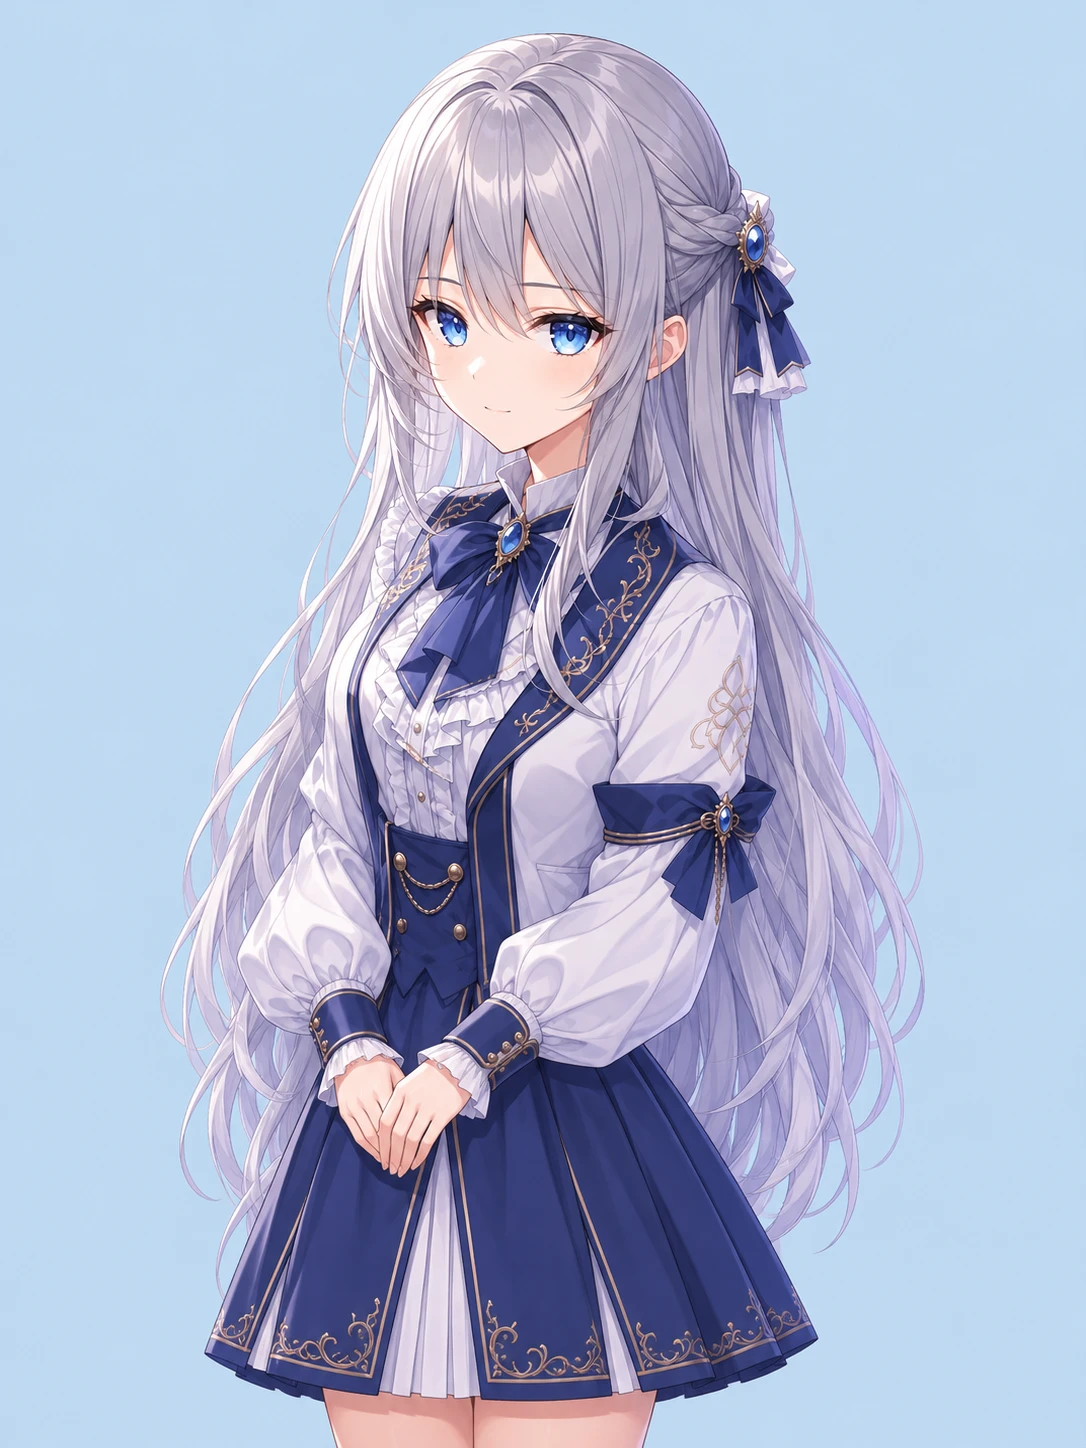
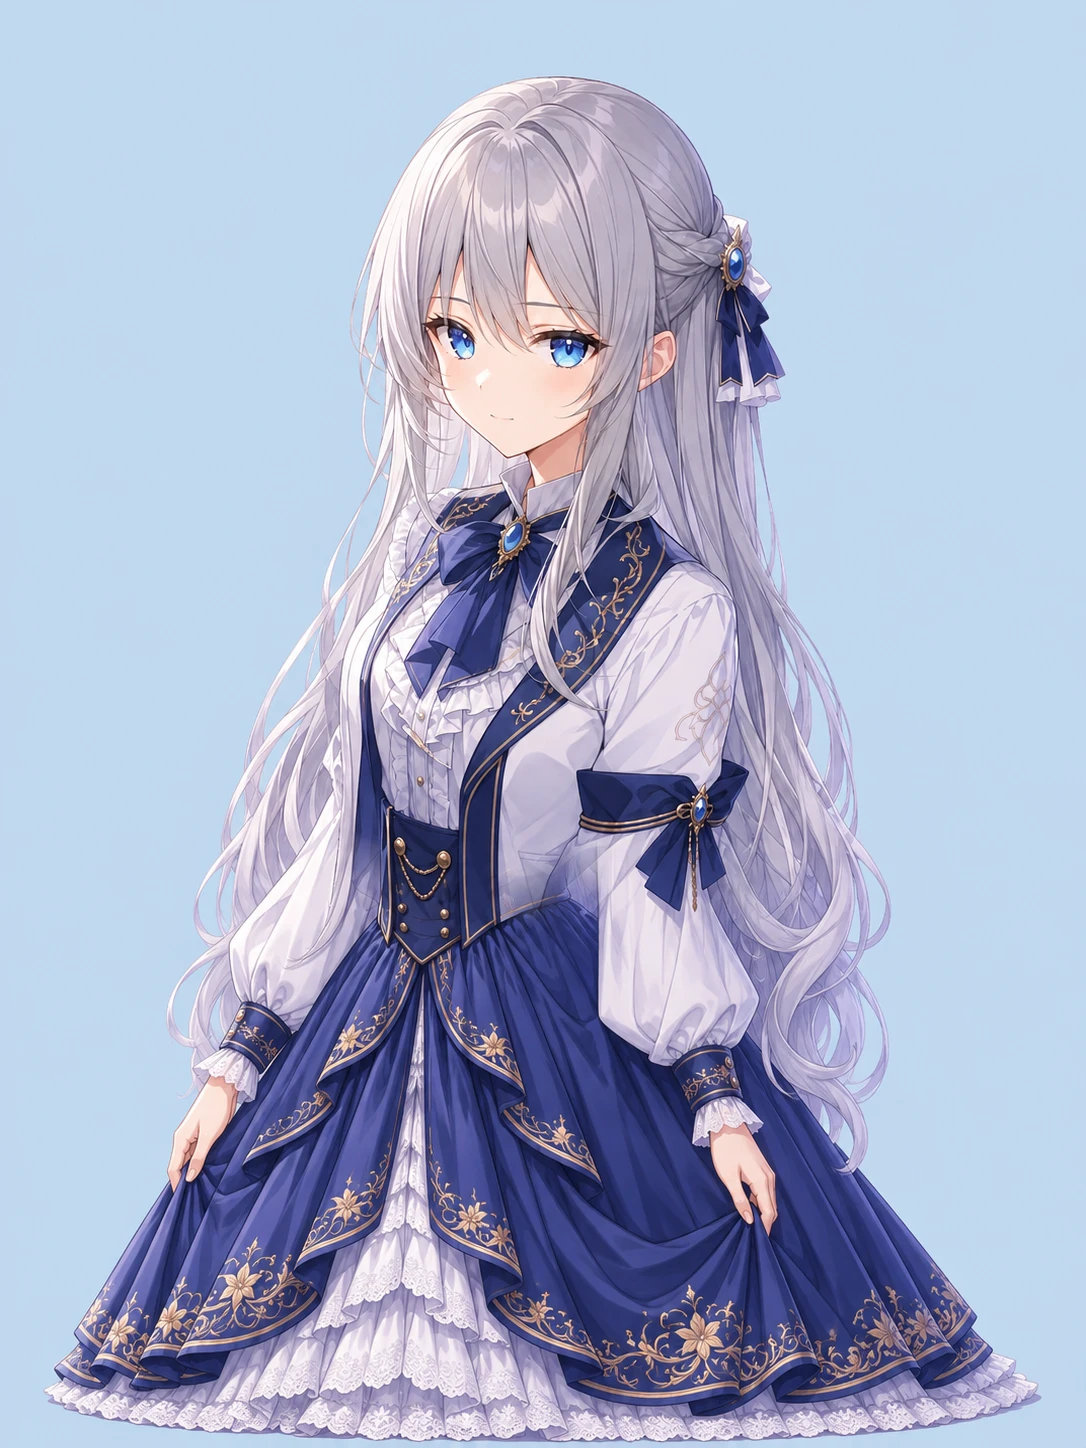
demos(portrait-picker): update Batch 1A v2 locked-structure natural outpaint candidates

diff --git a/portrait-picker/index.html b/portrait-picker/index.html
@@ -3,7 +3,7 @@
 <head>
 <meta charset="UTF-8">
 <meta name="viewport" content="width=device-width, initial-scale=1.0">
-<title>Batch 1A · 三姐妹少女期（每角 5 选 1）</title>
+<title>Batch 1A v2 · 三姐妹少女期（原图结构锁定补画 · 放宽体型）</title>
 <style>
 /* ==========================================================================
    《转生千金》立绘 5 选 1 交互审图工坊 · 棱镜冰晶雪瓷视觉体系
@@ -2030,7 +2030,7 @@ body.view-large .btn-zoom .zoom-txt {
 
 <div class="toast" id="toast" role="status" aria-live="polite"></div>
 
-<script id="showcase-data" type="application/json">{"batch_id":"batch_1a","batch_label":"Batch 1A","title":"Batch 1A · 三姐妹少女期（每角 5 选 1）","subtitle":"GPT 双通道 3:4 原生外扩拉长 · 同色系浅雾底防抠图溢色 · 选定后送抠抠图精抠","characters":[{"id":"sylvia_teenage_normal","name":"希尔维亚 · 少女期","role_tag":"核心女主 · 4 阶段之一","sample_line":"既然重活一世，这一生总该按自己的步调，悠闲地过日子才对。","original":{"src":"img/sylvia_teenage_normal/original.webp","defect":"原图仅到束腰上半截，且左右披发与白袖均被硬裁（左65px/右42px）","metrics":{"width":1086,"height":1448,"aspect":"3:4","margin_l":0.0,"margin_r":0.0,"margin_t":2.3,"margin_b":0.0,"bg_std":0.0,"bg_hex":"transparent","is_transparent":true}},"candidates":[{"index":1,"label":"#01","src":"img/sylvia_teenage_normal/cand_01.webp","tag":"短裙校准原版","note":"","metrics":{"width":1086,"height":1448,"aspect":"3:4","margin_l":14.7,"margin_r":14.8,"margin_t":2.2,"margin_b":0.0,"bg_std":1.5,"bg_hex":"#BFD9F2","is_transparent":false}},{"index":2,"label":"#02","src":"img/sylvia_teenage_normal/cand_02.webp","tag":"双手交叠束腰前","note":"","metrics":{"width":1086,"height":1448,"aspect":"3:4","margin_l":9.2,"margin_r":13.3,"margin_t":5.3,"margin_b":0.0,"bg_std":1.5,"bg_hex":"#BDD6EE","is_transparent":false}},{"index":3,"label":"#03","src":"img/sylvia_teenage_normal/cand_03.webp","tag":"单手微抬轻抚裙侧","note":"","metrics":{"width":1086,"height":1448,"aspect":"3:4","margin_l":9.4,"margin_r":10.5,"margin_t":5.3,"margin_b":0.0,"bg_std":1.2,"bg_hex":"#BBD5EF","is_transparent":false}},{"index":4,"label":"#04","src":"img/sylvia_teenage_normal/cand_04.webp","tag":"双臂微收轻拢裙面","note":"","metrics":{"width":1086,"height":1448,"aspect":"3:4","margin_l":8.8,"margin_r":12.2,"margin_t":5.2,"margin_b":0.0,"bg_std":1.4,"bg_hex":"#BED7EF","is_transparent":false}},{"index":5,"label":"#05","src":"img/sylvia_teenage_normal/cand_05.webp","tag":"微侧身手搭手腕","note":"","metrics":{"width":1086,"height":1448,"aspect":"3:4","margin_l":15.2,"margin_r":19.1,"margin_t":5.4,"margin_b":0.0,"bg_std":1.1,"bg_hex":"#BBD6F1","is_transparent":false}}]},{"id":"alice_teenage_normal","name":"爱丽丝 · 少女期","role_tag":"公爵次女 · 3 阶段之一","sample_line":"姐姐，今天的风有些凉，披肩记得系紧些再出门。","original":{"src":"img/alice_teenage_normal/original.webp","defect":"原图仅胸上/高腰裁切，白纱蓬袖与披发紧逼左右边界","metrics":{"width":1086,"height":1448,"aspect":"3:4","margin_l":1.5,"margin_r":2.4,"margin_t":4.3,"margin_b":0.0,"bg_std":0.0,"bg_hex":"transparent","is_transparent":true}},"candidates":[{"index":1,"label":"#01","src":"img/alice_teenage_normal/cand_01.webp","tag":"双手交叠（校准标杆）","note":"","metrics":{"width":1086,"height":1448,"aspect":"3:4","margin_l":16.8,"margin_r":16.8,"margin_t":3.9,"margin_b":0.0,"bg_std":1.6,"bg_hex":"#C0D9F2","is_transparent":false}},{"index":2,"label":"#02","src":"img/alice_teenage_normal/cand_02.webp","tag":"双手交叠腰扣下","note":"","metrics":{"width":1086,"height":1448,"aspect":"3:4","margin_l":10.8,"margin_r":10.9,"margin_t":4.3,"margin_b":0.0,"bg_std":1.4,"bg_hex":"#BDD8F0","is_transparent":false}},{"index":3,"label":"#03","src":"img/alice_teenage_normal/cand_03.webp","tag":"双臂柔和垂于裙侧","note":"","metrics":{"width":1086,"height":1448,"aspect":"3:4","margin_l":14.4,"margin_r":15.5,"margin_t":4.6,"margin_b":0.0,"bg_std":1.5,"bg_hex":"#BCD5EF","is_transparent":false}},{"index":4,"label":"#04","src":"img/alice_teenage_normal/cand_04.webp","tag":"一手轻搭胸前丝带","note":"","metrics":{"width":1086,"height":1448,"aspect":"3:4","margin_l":10.4,"margin_r":10.5,"margin_t":4.7,"margin_b":0.2,"bg_std":1.8,"bg_hex":"#BED8F2","is_transparent":false}},{"index":5,"label":"#05","src":"img/alice_teenage_normal/cand_05.webp","tag":"微侧身轻拢双手","note":"","metrics":{"width":1086,"height":1448,"aspect":"3:4","margin_l":12.3,"margin_r":12.6,"margin_t":4.8,"margin_b":0.0,"bg_std":1.4,"bg_hex":"#BED7F0","is_transparent":false}}]},{"id":"beatrice_teenage_normal","name":"贝阿特丽丝 · 少女期","role_tag":"公爵长女 · 3 阶段之一","sample_line":"哈哈，既然是学院比试，可不许对我手下留情哦！","original":{"src":"img/beatrice_teenage_normal/original.webp","defect":"原图为 1:1 方画幅，顶边仅 4px 险切高马尾，腰下与双袖斜切","metrics":{"width":1254,"height":1254,"aspect":"1:1","margin_l":12.4,"margin_r":5.7,"margin_t":0.4,"margin_b":0.0,"bg_std":0.0,"bg_hex":"transparent","is_transparent":true}},"candidates":[{"index":1,"label":"#01","src":"img/beatrice_teenage_normal/cand_01.webp","tag":"单手叉腰轻扶裙侧","note":"","metrics":{"width":1086,"height":1448,"aspect":"3:4","margin_l":12.0,"margin_r":15.4,"margin_t":5.5,"margin_b":0.0,"bg_std":1.7,"bg_hex":"#E0D3BF","is_transparent":false}},{"index":2,"label":"#02","src":"img/beatrice_teenage_normal/cand_02.webp","tag":"双手轻叉细腰","note":"","metrics":{"width":1086,"height":1448,"aspect":"3:4","margin_l":14.2,"margin_r":15.6,"margin_t":5.5,"margin_b":0.0,"bg_std":1.8,"bg_hex":"#E0D3BE","is_transparent":false}},{"index":3,"label":"#03","src":"img/beatrice_teenage_normal/cand_03.webp","tag":"一手抬腰一手提裙","note":"","metrics":{"width":1086,"height":1448,"aspect":"3:4","margin_l":12.4,"margin_r":15.3,"margin_t":5.5,"margin_b":0.0,"bg_std":1.8,"bg_hex":"#E0D2BE","is_transparent":false}},{"index":4,"label":"#04","src":"img/beatrice_teenage_normal/cand_04.webp","tag":"双手轻提裙摆微弧","note":"","metrics":{"width":1086,"height":1448,"aspect":"3:4","margin_l":12.1,"margin_r":16.0,"margin_t":5.6,"margin_b":0.0,"bg_std":1.9,"bg_hex":"#E2D3BC","is_transparent":false}},{"index":5,"label":"#05","src":"img/beatrice_teenage_normal/cand_05.webp","tag":"微侧身一手按腰","note":"","metrics":{"width":1086,"height":1448,"aspect":"3:4","margin_l":11.3,"margin_r":16.1,"margin_t":5.5,"margin_b":0.0,"bg_std":1.7,"bg_hex":"#E0D2BD","is_transparent":false}}]}]}</script>
+<script id="showcase-data" type="application/json">{"batch_id":"batch_1a_v2","batch_label":"Batch 1A v2","title":"Batch 1A v2 · 三姐妹少女期（原图结构锁定补画 · 放宽体型）","subtitle":"原立绘上半身与双臂走势 100% 锁定自然外扩 · 严禁腹前搭手与捏细身形 · 放宽左右边距保华丽贵族蓬裙","characters":[{"id":"sylvia_teenage_normal","name":"希尔维亚 · 少女期","role_tag":"核心女主 · 4 阶段之一","sample_line":"既然重活一世，这一生总该按自己的步调，悠闲地过日子才对。","original":{"src":"img/sylvia_teenage_normal/original.webp","defect":"原图仅到束腰上半截，且左右披发与白袖均被硬裁（左65px/右42px）","metrics":{"width":1086,"height":1448,"aspect":"3:4","margin_l":0.0,"margin_r":0.0,"margin_t":2.3,"margin_b":0.0,"bg_std":0.0,"bg_hex":"transparent","is_transparent":true}},"candidates":[{"index":1,"label":"#01","src":"img/sylvia_teenage_normal/cand_01.webp","tag":"自然垂手·金绣长裙","note":"","metrics":{"width":1086,"height":1448,"aspect":"3:4","margin_l":4.1,"margin_r":4.2,"margin_t":5.2,"margin_b":0.3,"bg_std":0.6,"bg_hex":"#C0D8EF","is_transparent":false}},{"index":2,"label":"#02","src":"img/sylvia_teenage_normal/cand_02.webp","tag":"轻提裙侧·蓝白层褶","note":"","metrics":{"width":1086,"height":1448,"aspect":"3:4","margin_l":0.0,"margin_r":0.0,"margin_t":5.1,"margin_b":0.0,"bg_std":0.6,"bg_hex":"#BCD7F0","is_transparent":false}},{"index":3,"label":"#03","src":"img/sylvia_teenage_normal/cand_03.webp","tag":"指尖轻拂·典雅长摆","note":"","metrics":{"width":1086,"height":1448,"aspect":"3:4","margin_l":0.0,"margin_r":0.0,"margin_t":5.2,"margin_b":0.0,"bg_std":0.6,"bg_hex":"#BDD6EE","is_transparent":false}},{"index":4,"label":"#04","src":"img/sylvia_teenage_normal/cand_04.webp","tag":"轻抚裙胯·饱满蓬裙","note":"","metrics":{"width":1086,"height":1448,"aspect":"3:4","margin_l":1.2,"margin_r":1.5,"margin_t":5.2,"margin_b":0.1,"bg_std":0.6,"bg_hex":"#BDD6EE","is_transparent":false}},{"index":5,"label":"#05","src":"img/sylvia_teenage_normal/cand_05.webp","tag":"微风垂袖·银发轻扬","note":"","metrics":{"width":1086,"height":1448,"aspect":"3:4","margin_l":0.6,"margin_r":0.6,"margin_t":5.2,"margin_b":0.0,"bg_std":0.6,"bg_hex":"#BFD7EE","is_transparent":false}}]},{"id":"alice_teenage_normal","name":"爱丽丝 · 少女期","role_tag":"公爵次女 · 3 阶段之一","sample_line":"姐姐，今天的风有些凉，披肩记得系紧些再出门。","original":{"src":"img/alice_teenage_normal/original.webp","defect":"原图仅胸上/高腰裁切，白纱蓬袖与披发紧逼左右边界","metrics":{"width":1086,"height":1448,"aspect":"3:4","margin_l":1.5,"margin_r":2.4,"margin_t":4.3,"margin_b":0.0,"bg_std":0.0,"bg_hex":"transparent","is_transparent":true}},"candidates":[{"index":1,"label":"#01","src":"img/alice_teenage_normal/cand_01.webp","tag":"双袖自然垂落·纯白蕾丝","note":"","metrics":{"width":1086,"height":1448,"aspect":"3:4","margin_l":0.0,"margin_r":0.0,"margin_t":5.2,"margin_b":0.0,"bg_std":0.6,"bg_hex":"#C0D8F0","is_transparent":false}},{"index":2,"label":"#02","src":"img/alice_teenage_normal/cand_02.webp","tag":"指尖轻拢裙侧·冰蓝丝带","note":"","metrics":{"width":1086,"height":1448,"aspect":"3:4","margin_l":1.1,"margin_r":1.1,"margin_t":5.2,"margin_b":0.0,"bg_std":0.6,"bg_hex":"#C1D8F0","is_transparent":false}},{"index":3,"label":"#03","src":"img/alice_teenage_normal/cand_03.webp","tag":"舒展垂手·多层雪纱裙","note":"","metrics":{"width":1086,"height":1448,"aspect":"3:4","margin_l":0.8,"margin_r":0.8,"margin_t":5.2,"margin_b":0.1,"bg_std":0.6,"bg_hex":"#C0D8EF","is_transparent":false}},{"index":4,"label":"#04","src":"img/alice_teenage_normal/cand_04.webp","tag":"轻提外纱·清冷典雅","note":"","metrics":{"width":1086,"height":1448,"aspect":"3:4","margin_l":0.1,"margin_r":0.2,"margin_t":5.2,"margin_b":0.0,"bg_std":0.6,"bg_hex":"#BED8F0","is_transparent":false}},{"index":5,"label":"#05","src":"img/alice_teenage_normal/cand_05.webp","tag":"雪发轻扬·冰晶蕾丝摆","note":"","metrics":{"width":1086,"height":1448,"aspect":"3:4","margin_l":2.0,"margin_r":2.1,"margin_t":5.2,"margin_b":0.7,"bg_std":0.6,"bg_hex":"#BED8F0","is_transparent":false}}]},{"id":"beatrice_teenage_normal","name":"贝阿特丽丝 · 少女期","role_tag":"公爵长女 · 3 阶段之一","sample_line":"哈哈，既然是学院比试，可不许对我手下留情哦！","original":{"src":"img/beatrice_teenage_normal/original.webp","defect":"原图为 1:1 方画幅，顶边仅 4px 险切高马尾，腰下与双袖斜切","metrics":{"width":1254,"height":1254,"aspect":"1:1","margin_l":12.4,"margin_r":5.7,"margin_t":0.4,"margin_b":0.0,"bg_std":0.0,"bg_hex":"transparent","is_transparent":true}},"candidates":[{"index":1,"label":"#01","src":"img/beatrice_teenage_normal/cand_01.webp","tag":"自然外展·红金蓬裙","note":"","metrics":{"width":1086,"height":1448,"aspect":"3:4","margin_l":0.0,"margin_r":0.7,"margin_t":5.1,"margin_b":0.0,"bg_std":0.6,"bg_hex":"#DFD1BD","is_transparent":false}},{"index":2,"label":"#02","src":"img/beatrice_teenage_normal/cand_02.webp","tag":"轻提裙侧·明朗大小姐","note":"","metrics":{"width":1086,"height":1448,"aspect":"3:4","margin_l":0.5,"margin_r":0.0,"margin_t":5.1,"margin_b":0.0,"bg_std":0.6,"bg_hex":"#E2D4C0","is_transparent":false}},{"index":3,"label":"#03","src":"img/beatrice_teenage_normal/cand_03.webp","tag":"轻扶裙胯·华丽红裙","note":"","metrics":{"width":1086,"height":1448,"aspect":"3:4","margin_l":1.0,"margin_r":0.1,"margin_t":5.1,"margin_b":0.0,"bg_std":0.6,"bg_hex":"#E0D3BE","is_transparent":false}},{"index":4,"label":"#04","src":"img/beatrice_teenage_normal/cand_04.webp","tag":"舒展袖摆·白蕾丝层裙","note":"","metrics":{"width":1086,"height":1448,"aspect":"3:4","margin_l":1.1,"margin_r":1.2,"margin_t":5.2,"margin_b":0.2,"bg_std":0.6,"bg_hex":"#DFD2BE","is_transparent":false}},{"index":5,"label":"#05","src":"img/beatrice_teenage_normal/cand_05.webp","tag":"爽朗姿态·跃动金马尾","note":"","metrics":{"width":1086,"height":1448,"aspect":"3:4","margin_l":1.3,"margin_r":1.7,"margin_t":5.1,"margin_b":0.9,"bg_std":0.6,"bg_hex":"#E2D4C0","is_transparent":false}}]}]}</script>
 <script>
 (function () {
   "use strict";
